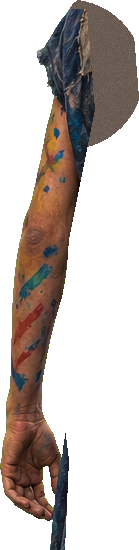
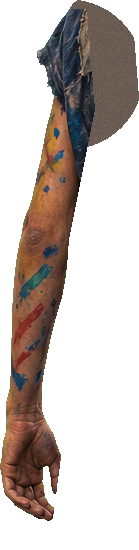
Zaatar: remove cloth sliver at hand; foreshortened kick for back-view heroes
Claude-Session: https://claude.ai/code/session_01NK9iDXTyx3wBvzPstrXWEG

Changed region(s): [[0.3453, 0.7727, 0.518, 1.0]]

diff --git a/Assets/Scripts/Prototype/HeroRig.cs b/Assets/Scripts/Prototype/HeroRig.cs
@@ -144,6 +144,21 @@ namespace Sheytoonak.Prototype
         readonly Dictionary<string, Transform> bones = new Dictionary<string, Transform>();
         readonly Dictionary<string, SpriteRenderer> skins = new Dictionary<string, SpriteRenderer>();
         Vector3 rootRest, torsoScale = Vector3.one; float rigScale = 1f;
+        // User (2026-11-17) on the new back-view Zaatar: «با توجه به این که بدن زاویه یک سوم به دوربین داره پا هم باید یک
+        // سوم باشه ولی الان پا رفته راست کامل موقع شوت». Seen from behind, a kick goes INTO the picture, away from the
+        // camera: the leg only swings a little sideways and mostly gets shorter. Only heroes drawn from behind.
+        static readonly HashSet<string> BackView = new HashSet<string> { "zaatar" };
+        const float DepthSwing = 0.4f, DepthShorten = 0.4f;
+        bool foreshorten;
+        readonly Dictionary<string, Vector3> legScale = new Dictionary<string, Vector3>();
+        float Swing(float deg) => foreshorten ? deg * DepthSwing : deg;
+        float Shorten(float deg) => foreshorten ? 1f - DepthShorten * Mathf.Sin(Mathf.Clamp(Mathf.Abs(deg), 0f, 90f) * Mathf.Deg2Rad) : 1f;
+        void Leg(string bone, float deg)
+        {
+            Rot(bone, Swing(deg));
+            if (bones.TryGetValue(bone, out var b) && legScale.TryGetValue(bone, out var s0))
+                b.localScale = new Vector3(s0.x, s0.y * Shorten(deg), s0.z);
+        }
         float phase, kickT = -1f, seed;
         Vector3 lastPos; float speed;
 
@@ -189,6 +204,8 @@ namespace Sheytoonak.Prototype
             }
             rootRest = bones["shorts"].localPosition;
             torsoScale = bones["torso"].localScale;
+            foreshorten = BackView.Contains(id);
+            foreach (var n in new[] { "leg_far", "leg_near" }) if (bones.TryGetValue(n, out var lb)) legScale[n] = lb.localScale;
             // ⚠ The host's scale comes from its standing picture, and on Android every hero picture is imported at
             // 512 px (on the CI Linux player at full size), so that picture is ~3x smaller there and the host ~3x larger.
             // User (2026-11-11, on the phone): «سایزش درست نیست، باید کوچیک شه اندازه بقیه» -- the puppet was a giant.
@@ -239,7 +256,8 @@ namespace Sheytoonak.Prototype
             if (!skins.TryGetValue("leg_near", out var sr) || sr.sprite == null) return Vector3.zero;
             var b = sr.sprite.bounds;
             var tip = new Vector3(b.max.x - b.size.x * 0.12f, b.min.y + b.size.y * 0.04f, 0f);
-            var p = rootRest + bones["leg_near"].localPosition + Quaternion.Euler(0f, 0f, legDeg) * tip;
+            tip.y *= Shorten(legDeg);
+            var p = rootRest + bones["leg_near"].localPosition + Quaternion.Euler(0f, 0f, Swing(legDeg)) * tip;
             p.x *= host.flipX ? -rigScale : rigScale; p.y *= rigScale;
             return transform.TransformVector(p);
         }
@@ -301,7 +319,7 @@ namespace Sheytoonak.Prototype
                 if (kickT >= KickSeconds) kickT = -1f;
             }
 
-            Rot("leg_far", legFar); Rot("leg_near", legNear);
+            Leg("leg_far", legFar); Leg("leg_near", legNear);
             Rot("arm_far", armFar); Rot("arm_near", armNear);
             Rot("torso", torso); Rot("head", head);
             bones["shorts"].localPosition = rootRest + new Vector3(0f, bob, 0f);

diff --git a/docs/CHANGELOG.fa.md b/docs/CHANGELOG.fa.md
@@ -2,6 +2,11 @@
 
 این فایل خلاصهی کارهای انجامشده است تا اگر کار جای دیگری ادامه پیدا کرد، معلوم باشد چه ساخته شده، چرا، و چه چیزهایی هنوز باز است. جزئیاتِ هر تغییر در پیامِ کامیتهاست (`git log`)؛ اینجا فقط نقشهی راه.
 
+## ۲۰۲۶-۱۱-۱۷ — زعتر: دست و شوت
+
+* حرفِ کاربر: «دست زعتر چرا چاک داره» — تکهی آبیِ پیراهن که کنارِ دستِ دور بریده شده بود حذف شد.
+* «پا هم باید یک سوم باشه ولی الان پا رفته راست کامل موقع شوت» — برای قهرمانهای پشتبهدوربین (`HeroRig.BackView`، فعلاً زعتر) شوت ۴۰٪ چرخش دارد و پا تا ۴۰٪ کوتاه میشود (رفتن به عمقِ تصویر). نقطهی برخوردِ توپ با همان فرمول حساب میشود.
+
 ## ۲۰۲۶-۱۱-۱۷ — زعتر واقعی + شروعِ قرونِ وسطا
 
 * زعترِ تازه (عکسواقعی، ماسکدار، از پشت) جای نقاشیِ کارتونی؛ قدیمیها در `ArtArchive/Heroes/toon_zaatar/`. ریگ دوباره بریده شد.
